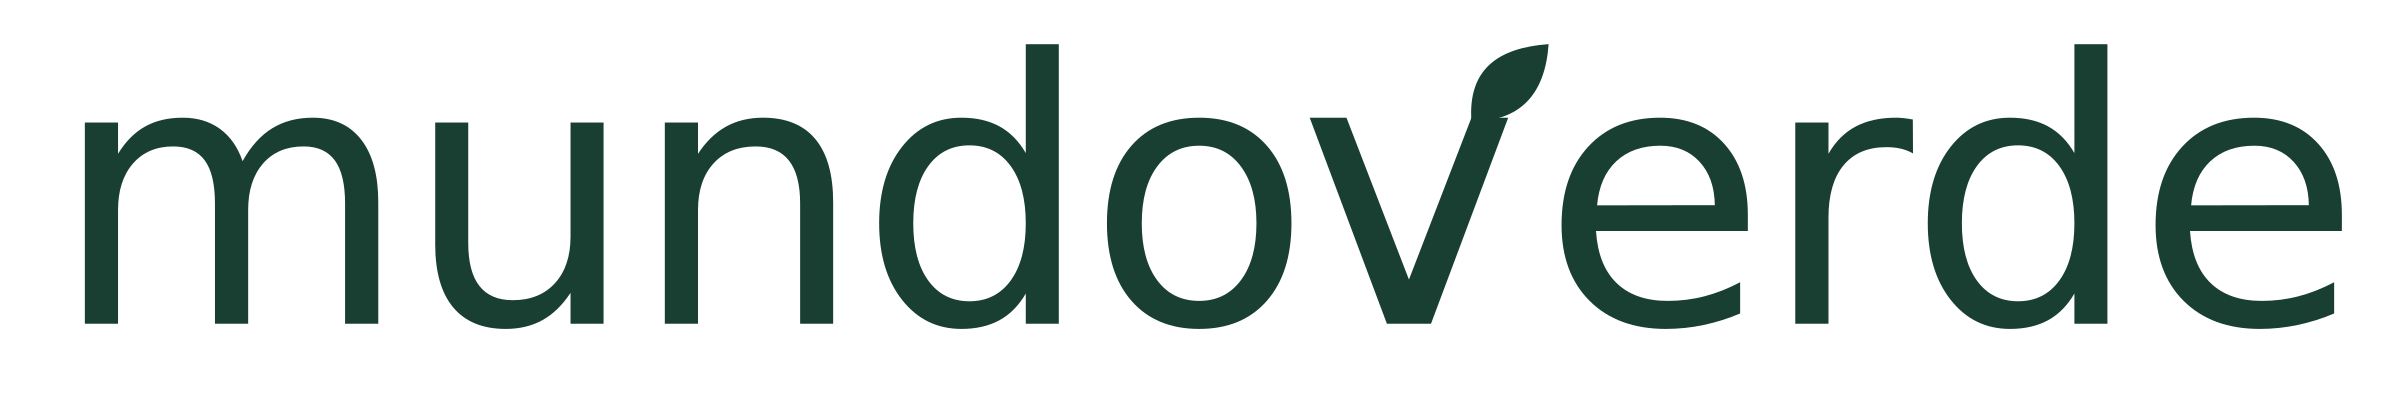
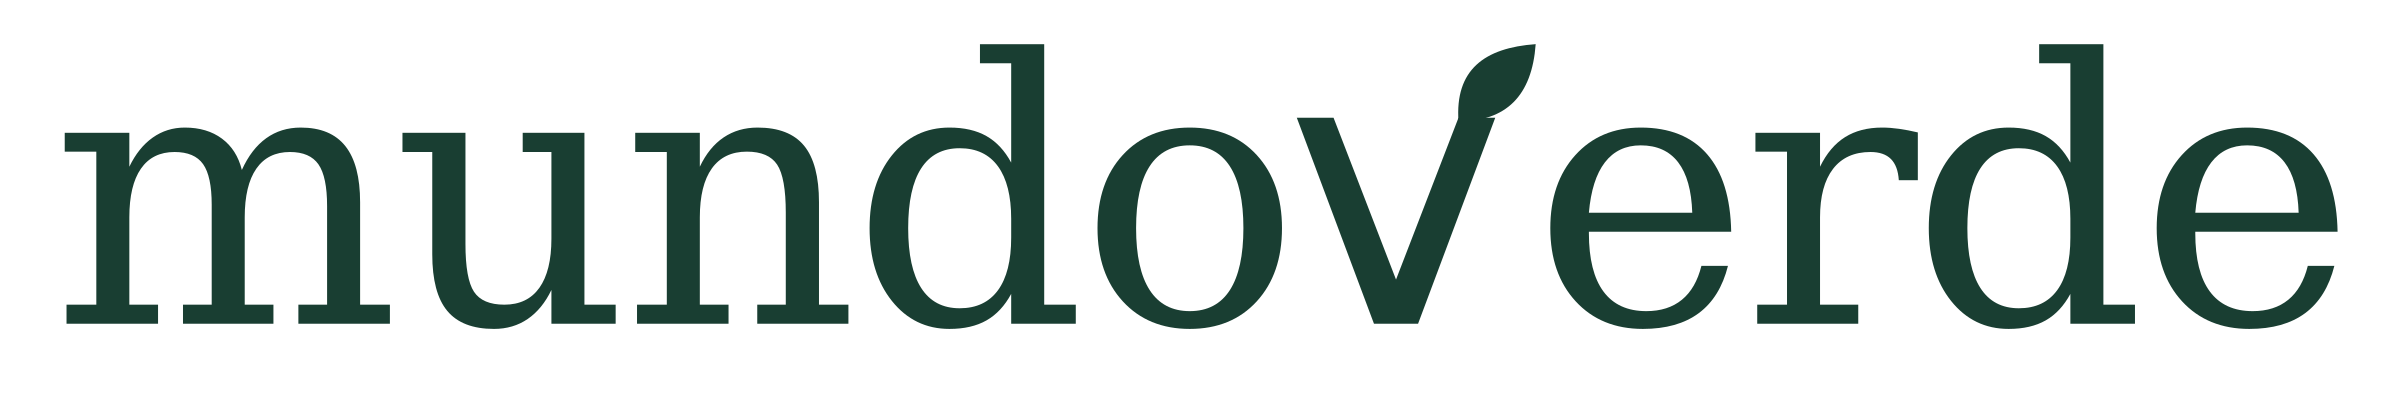
Setup_update_part2

diff --git a/build_logo.py b/build_logo.py
@@ -1,0 +1,57 @@
+"""Create warmer serif wordmarks from an installed DejaVu Serif font.
+Requires Python and fontTools. SVG exports do not require a font at runtime.
+"""
+from pathlib import Path
+from fontTools.ttLib import TTFont
+from fontTools.pens.svgPathPen import SVGPathPen
+from fontTools.pens.transformPen import TransformPen
+import xml.etree.ElementTree as ET
+import json
+
+ROOT=Path(__file__).resolve().parent
+(ROOT/'assets').mkdir(exist_ok=True)
+FONT=Path('/usr/share/fonts/truetype/dejavu/DejaVuSerif.ttf')
+font=TTFont(FONT);glyphs=font.getGlyphSet();cmap=font.getBestCmap();scale=100/font['head'].unitsPerEm
+def text_paths(word,x,fill):
+    paths=[]
+    for char in word:
+        name=cmap[ord(char)]
+        pen=SVGPathPen(glyphs)
+        glyphs[name].draw(TransformPen(pen,(scale,0,0,-scale,x,88)))
+        paths.append(f'<path fill="{fill}" d="{pen.getCommands()}"/>')
+        x+=font['hmtx'][name][0]*scale-2.0
+    return ''.join(paths),x
+def logo(a,b):
+    left,x=text_paths('mundo',14,a)
+    v=f'<g transform="translate({x+1} 0)" fill="{b}"><path d="M0 32 H10 L27 76 L44 32 H54 L33 88 H21 Z"/><path d="M44 33 C43 19 51 13 65 12 C64 26 57 33 44 33 Z"/></g>'
+    right,end=text_paths('erde',x+65,b)
+    return left+v+right,round(end+14,2)
+def svg(body,w,h,title):
+    return f'<svg xmlns="http://www.w3.org/2000/svg" viewBox="0 0 {w} {h}" role="img" aria-labelledby="title"><title id="title">{title}</title>{body}</svg>'
+for name,a,b in [('primary','#193E32','#47683F'),('mono','#193E32','#193E32'),('white','#FFFFFF','#FFFFFF')]:
+    body,width=logo(a,b)
+    (ROOT/f'assets/mundoverde-wordmark-{name}.svg').write_text(svg(body,width,112,'mundoverde'),encoding='utf-8')
+
+# Text-independent source illustration of the revised logo.
+body,width=logo('#193E32','#47683F')
+board=['<rect width="1600" height="1160" fill="#F5F3EB"/>']
+def label(x,y,value,size=22,color='#193E32'):
+    board.append(f'<text x="{x}" y="{y}" font-family="DejaVu Sans,sans-serif" font-size="{size}" fill="{color}">{value}</text>')
+label(80,65,'MUNDOVERDE / SCHRIFTENTWURF 02',18)
+label(80,130,'Mehr Wärme. Mehr redaktioneller Charakter.',34)
+label(80,195,'BISHER',16,'#526458')
+old=ROOT/'reference/mundoverde-wordmark-v1.svg'
+if old.exists():
+    tree=ET.parse(old).getroot();oldw=float(tree.attrib['viewBox'].split()[2]);oldbody=''.join(ET.tostring(e,encoding='unicode') for e in tree if e.tag.split('}')[-1]!='title')
+    board.append(f'<g transform="translate(65 210) scale({1420/oldw})">{oldbody}</g>')
+board.append('<path d="M80 480 H1520" stroke="#C5CFC1"/>')
+label(80,530,'NEUER VORSCHLAG',16,'#526458')
+board.append(f'<g transform="translate(65 555) scale({1420/width})">{body}</g>')
+label(80,855,'Ruhige Serifen · offenere Buchstabenwirkung · Keimling und Farben bleiben',22,'#526458')
+board.append('<rect x="80" y="905" width="1440" height="150" rx="5" fill="#193E32"/>')
+white,_=logo('#FFFFFF','#FFFFFF')
+board.append(f'<g transform="translate(110 915) scale({820/width})">{white}</g>')
+label(80,1120,'Vektorfassung · einfarbig nutzbar · Website noch unverändert',16,'#526458')
+(ROOT/'vergleich.svg').write_text(svg(''.join(board),1600,1160,'mundoverde – bisherige und neue Logoschrift'),encoding='utf-8')
+(ROOT/'specification.json').write_text(json.dumps({'wordmark':'mundoverde','font_basis':'DejaVu Serif Book','outline_export':True,'symbol':'unchanged from V1','colors':['#193E32','#47683F'],'viewBox':[width,112]},indent=2))
+print('Logo variants and comparison generated:',width)

diff --git a/README.md b/README.md
@@ -1,33 +1,24 @@
-# mundoverde CI und CD Entwurf 01
+# mundoverde Logo Schriftentwurf 02
 
-Stand 4. November 2026. Logo, Gestaltungsregeln und eine lokale Website-Vorschau für das bestehende GitHub-Pages-Projekt. Kein Hostingwechsel, keine Veröffentlichung.
+Die Wortmarke verwendet jetzt eine ruhigere Serifenschrift auf Basis von DejaVu Serif Book. Die Änderung soll dem Naturmagazin eine wärmere, buchnahe und redaktionelle Anmutung geben. Das ist eine gestalterische Einschätzung, kein durch Nutzertests belegtes Wahrnehmungsergebnis.
 
-## Anschauen
+Das v als Keimling, die beiden Grüntöne, der Name und die grundsätzliche Anordnung bleiben erhalten. Das Symbol ist in der Wortmarke bewusst eine eigene Form und kein getipptes Standard-v. Die Lesetypografie und Bedienoberfläche der Website müssen wegen dieser Logoänderung nicht auf Serifenschrift umgestellt werden.
 
-ZIP entpacken und index.html öffnen. Das ist der Gestaltungsleitfaden mit Varianten und einer Verknüpfung zur Website. Die Website selbst liegt unter website/index.html. brandboard.png zeigt den kompakten Markenüberblick.
+## Ansehen und verwenden
 
-## Inhalt
+- vergleich.png zeigt alte und neue Wortmarke mit gleicher Breite der SVG-Zeichenflächen. Die untere Zusatzansicht zeigt die Negativfassung.
+- assets enthält transparente SVG- und PNG-Dateien in Farbe, einfarbig und weiß. Weiße Logos auf dunklem Grund ansehen.
+- website/assets enthält ausschließlich die drei neuen SVG-Wortmarken mit den bisherigen Dateinamen. Bei späterer Übernahme nur diese Wortmarken im entsprechenden assets-Ordner ersetzen. Keine HTML-, Rechts- oder Beitragsdateien werden überschrieben.
+- reference enthält die alte Wortmarke zum Vergleich.
+- build_logo.py und specification.json dokumentieren den Aufbau. Zum Erzeugen wird Python mit fontTools und DejaVu Serif am angegebenen Systempfad benötigt. PNGs wurden mit Inkscape exportiert.
+- FONT-LICENSE.txt enthält die Lizenzhinweise zur Schriftbasis. Die SVGs bestehen aus Pfaden und laden keine Schriftdatei nach.
 
-- assets: Wortmarke in Farbe, einfarbig und weiß; v-Keimling, vereinfachtes Micro-Zeichen, Favicon; SVG und transparente PNG. Die weißen Varianten sind auf weißem Hintergrund naturgemäß kaum sichtbar.
-- index.html: CI/CD-Leitfaden einschließlich Positionierung, Tonalität, Farben, Typografie, Abständen, Mindestgrößen, Bildsprache und Struktur.
-- website: vollständige lokale Designvorschau, abgeleitet vom ursprünglichen bereitgestellten Paket. Die Rechtstexte und Artikel sind noch Entwürfe.
-- tokens.css: zentrale Farbwerte.
-- validation: technische Befunde und errechnete Kontraste.
-- source: Aufbau der Vektoren und ursprünglicher Website-Stand für Nachvollziehbarkeit.
-- FONT-LICENSE.txt: Lizenzhinweise zur DejaVu-Sans-Basis der Logo-Buchstaben. Es werden keine Fonts ins Web geladen.
+## Ergänzung zum CI/CD Leitfaden 01
 
-Die finale technische Wortmarke wurde als eigenständige Vektorfassung nach dem generierten Bildkonzept aufgebaut, nicht als pixelgenaue Vektorisierung des Konzeptbildes. Die Linienführung und Schrift unterscheiden sich deshalb bewusst. Das Konzeptbild ist kein Logo-Master.
+Die bisherige Logo-Schriftbasis DejaVu Sans wird für die Wortmarke durch DejaVu Serif Book ersetzt. Die feste Vektorform ist der Master. Schutzraum, Farbpalette, Mindestbreiten und Verwendung der separaten Symbole aus dem bisherigen Leitfaden bleiben als Entwurfsregeln bestehen. Minimum für die Wortmarke weiterhin 180 CSS-Pixel; darunter das vorhandene separate v-Zeichen verwenden. Kein Schatten, kein Strecken, keine Kontur ergänzen.
 
-## Später auf die Website übernehmen
+## Geprüft
 
-Die Dateien nicht pauschal über einen möglicherweise inzwischen geänderten Repository-Stand kopieren. Diese Vorschau basiert auf dem ursprünglichen Paket, nicht auf einem erneut heruntergeladenen aktuellen GitHub-Checkout.
+Die neue Fassung wurde als Bild gerendert und gesichtet. SVG-Struktur, vollständig lesbare PNGs und eine kleine Größenübersicht wurden geprüft. Alle drei SVG-Wortmarken verwenden dieselbe Geometrie und benötigen keine externen Ressourcen. Die Farben sind unverändert; die bisherigen Kontrastberechnungen gelten deshalb weiterhin für die gleichen Farbpaare. Die Wortmarke hat annähernd dieselbe Zeichenflächenproportion wie vorher.
 
-Für die gestalterische Übernahme sind style.css, app.js, favicon.svg, assets/ und die angepassten HTML-Kopfbereiche sowie die Startseite relevant. Neue Texte oder in der Zwischenzeit ausgefüllte Betreiberangaben erhalten. Die mitgelieferten impressum.html und datenschutz.html nicht über bereits vervollständigte Rechtstexte laden. Die gesondert vorbereitete Impressumsvorlage ohne Telefonnummer wird durch dieses Designpaket nicht ersetzt.
-
-noindex auf den Magazinseiten bleibt bis zur redaktionellen und rechtlichen Freigabe bestehen. Es ist keine Zugangssperre. Die neue Gestaltung macht die Website nicht automatisch rechtlich veröffentlichungsfertig.
-
-## Validierung verstehen
-
-Die konkreten Ergebnisse stehen in validation/PRUEFPROTOKOLL.md. Rechnerische Kontraste, statische Prüfungen und beobachtetes Browser-Verhalten sind getrennt von subjektiven Gestaltungsentscheidungen dokumentiert. Keine Markenfreigabe, keine vollständige WCAG-Zertifizierung und kein Druck-Andruck.
-
-Für Reproduktion des Generierungsschritts: Python mit fontTools, DejaVu Sans unter dem im Skript angegebenen Systempfad und source/build_brand.py verwenden. Das Skript erzeugt SVGs, Kontrastdaten und die Website aus source/original-site. Der Leitfaden ist eigenständig gepflegtes HTML; PNG-Ausgaben wurden mit Inkscape erstellt.
+Das ist keine neue vollständige Prüfung der Website, keine Markenfreigabe und kein Andruck. Es wurde keine Live-Änderung durchgeführt.
